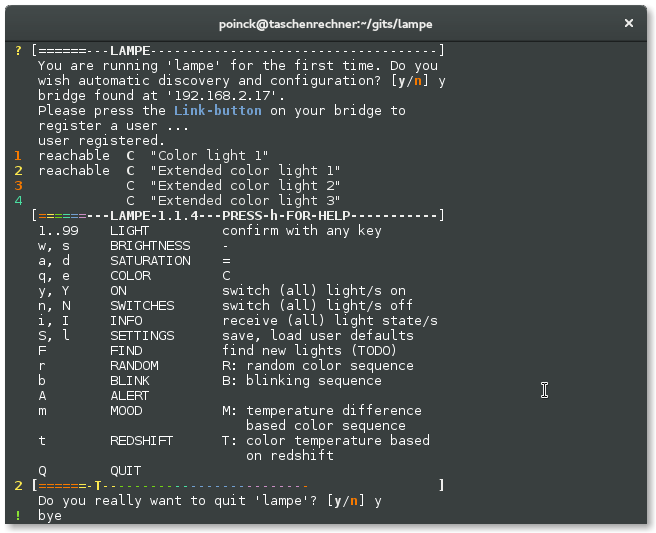
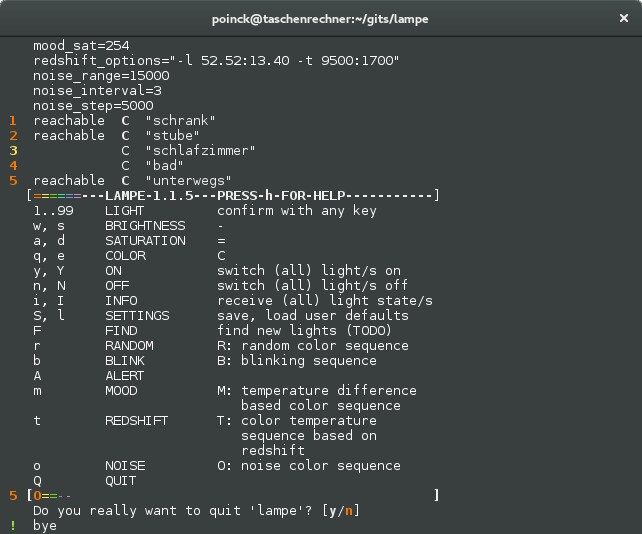
readme update and new lampe(-bash)-screenshot

diff --git a/README.md b/README.md
@@ -1,14 +1,15 @@
 # Readme: lampe
 
+**lampe:**
+
+Interactive bash-script to control your Philips Hue lights.
+
+![lampe](/lampe.png)
+
 **lampe-gtk:**
 Control your Philips Hue lights from the Gnome-Desktop
 
 ![lampe-gtk](/lampe-gtk.png)
-
-**lampe(-bash):**
-Interactive bash-script to control your Philips Hue lights.
-
-![lampe](/lampe.png)
 
 ## Requirements
 Following cli-tools need to be installed on your system in order to use **lampe(-bash)**:
@@ -84,7 +85,7 @@ Use "lampe" like a computer-game without gamepad or arrow-keys - use WASD. *(:*
     A - alert
     m - start or stop temperature difference based color sequence
     t - start or stop redshift sequence
-    o - start or stop noise sequnce (TODO)
+    o - start or stop noise sequnce
     Q - quit
 ```
 
